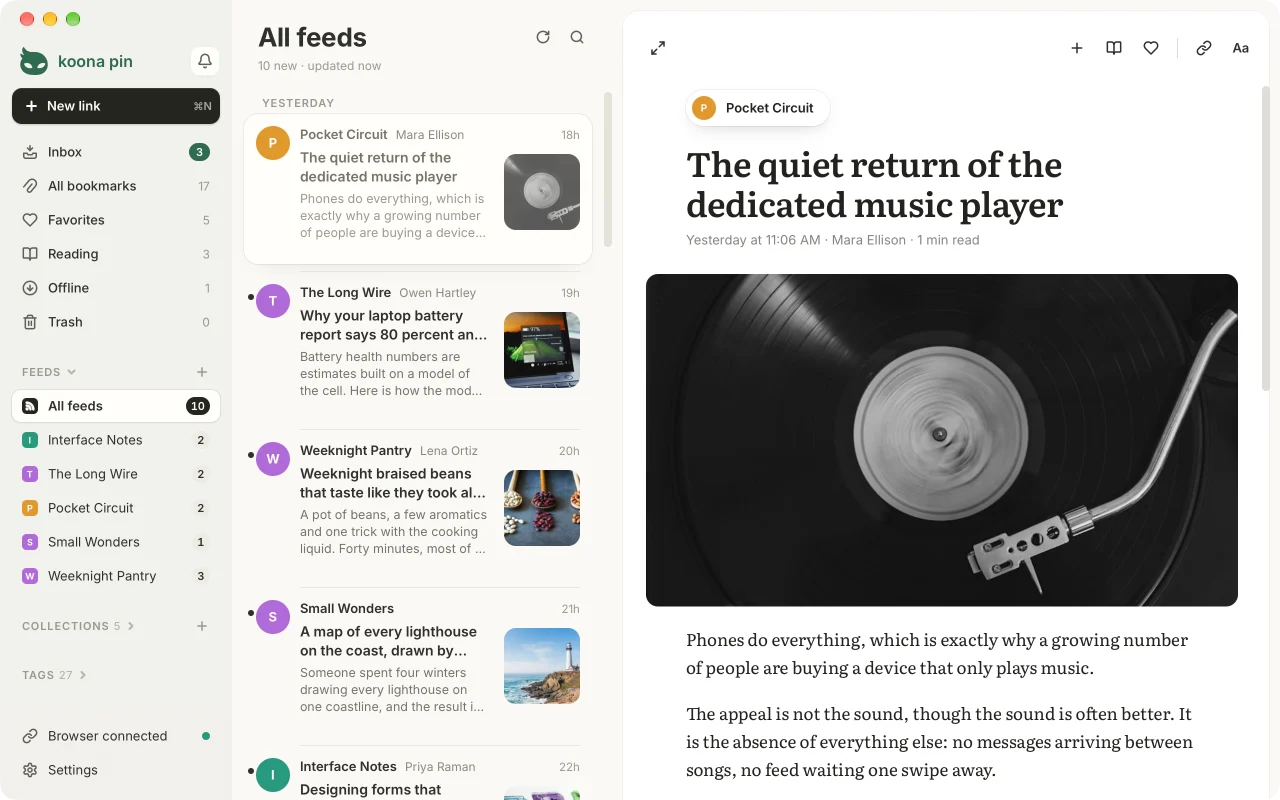
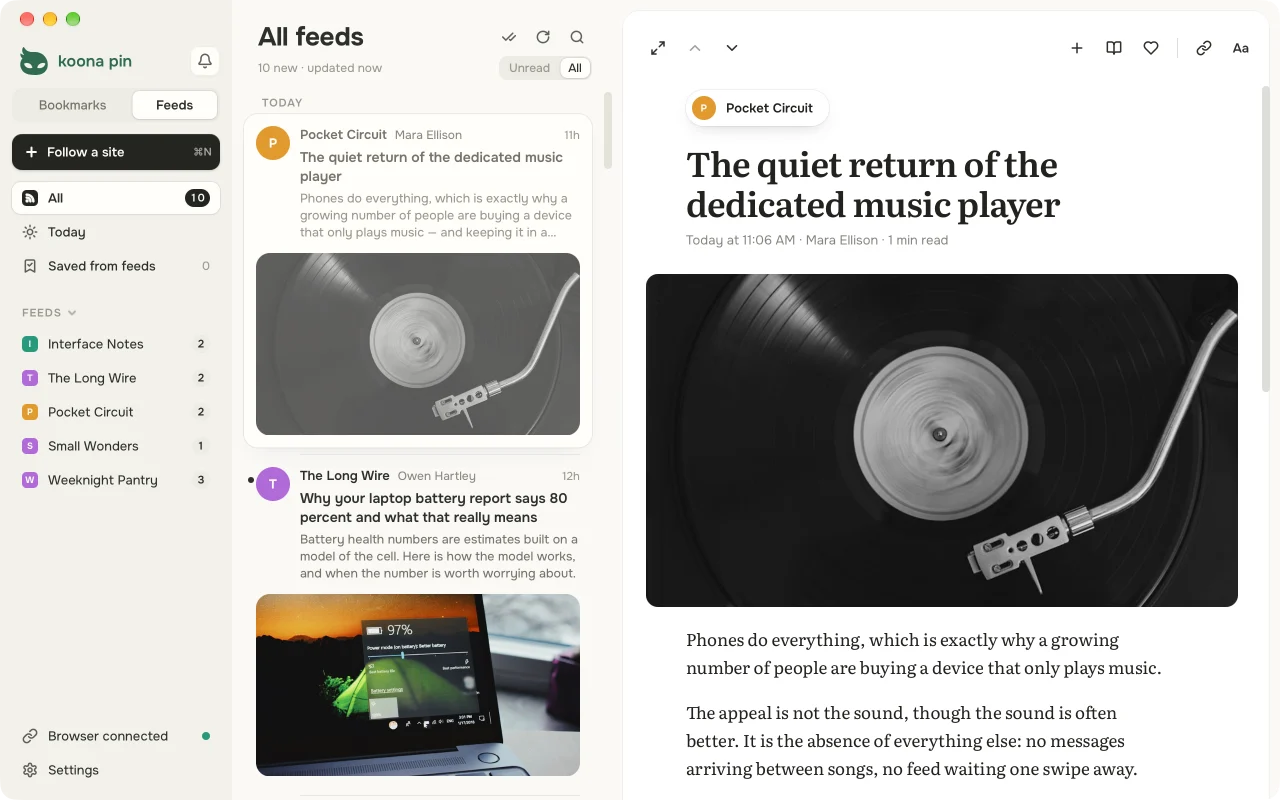
README screenshots and docs for the two modes; the macOS shot script sets the mode per view

diff --git a/README.md b/README.md
@@ -10,7 +10,7 @@ Your bookmarks and reading list, in one file on your computer. Koona Pin is a bo
 
 ![Koona Pin in the light theme: bookmarks in a compact grid with pictures, site names and titles; the Bookmarks and Feeds tabs, Inbox, Reading, collections and tags in the sidebar](docs/shots/app-en-light-grid-1280.webp)
 
-![Feeds in three columns: followed feeds in the sidebar, a list of posts with unread ones marked, and the open post on a card on the right](docs/shots/app-en-light-feeds-1280.webp)
+![Feeds in three columns: the Feeds mode's sidebar with All, Today, Saved from feeds and the followed feeds, a list of posts with unread ones marked, and the open post on a card on the right](docs/shots/app-en-light-feeds-1280.webp)
 
 ![Reading mode in the dark theme: the Reading queue on the left, an article in one serif column on the right](docs/shots/app-en-dark-reading-1280.webp)
 
@@ -18,12 +18,12 @@ Your bookmarks and reading list, in one file on your computer. Koona Pin is a bo
 
 - **One-button capture.** The browser extension saves the current page to Koona Pin, even when the app window is closed. New links arrive in Inbox.
 - **Two modes.** Bookmarks and Feeds each have their own sidebar, switched at its top or with ⌘1 and ⌘2 (Ctrl 1 and Ctrl 2 elsewhere). The app opens in the mode you used last.
-- **New link, paste or drop.** «New link» at the top of the sidebar (⌘N on a Mac, Ctrl N elsewhere) shows the page's real title and picture before you save it, and offers to follow the site's feed. Paste a link anywhere in the library (⌘V or Ctrl V) or drop it onto the window to save it at once.
+- **New link, paste or drop.** «New link» at the top of the Bookmarks sidebar (⌘N on a Mac, Ctrl N elsewhere) shows the page's real title and picture before you save it, and offers to follow the site's feed. Paste a link anywhere in the library (⌘V or Ctrl V) or drop it onto the window to save it at once.
 - **Inbox as a stack of cards.** Each new link sits on top of the next ones: ← moves it to the Trash, → keeps it, the heart adds it to Favorites. The collection where links from that site usually go is suggested.
 - **Reading mode.** Saved articles open in one serif column, with the Reading queue beside them; J and K move between articles, Tab between the queue and the article, ⌫ takes an article out of Reading. The Aa panel sets text size, column width, font and theme. A title or Enter opens a bookmark in reading mode; when a page can't be shown as an article, it offers the browser instead.
 - **A Reading list without a limit.** Send links there with R, from the card menu, or with «Save to Reading» in the extension (right-click a page or a link, or Alt+Shift+R). Reading remembers where you stopped.
 - **Offline copies.** «Save for offline» keeps an article's text and pictures on your computer, to read without a connection; Settings can do it for every article you open from Reading (off by default). Copies are never uploaded or synced.
-- **Feeds.** Follow a site's RSS, Atom or JSON feed and read new posts in three columns: feeds in the sidebar, the posts, and the article on a card with next and previous story. Today gathers the day's posts; «Saved from feeds» keeps the posts you saved, after the feed drops them. S saves a post, R sends it to Reading, F to Favorites, O opens it in the browser. A post becomes a bookmark only when you save it; unsaved posts are kept for 30 days. The app fetches feeds itself, straight from the sites, about once an hour or as often as you choose. Feeds import and export as OPML.
+- **Feeds.** Follow a site's RSS, Atom or JSON feed with «Follow a site» (⌘N in the Feeds mode) and read new posts in three columns: feeds in the sidebar, the posts, and the article on a card with next and previous story. Today gathers the day's posts; «Saved from feeds» keeps the posts you saved, after the feed drops them. S saves a post, R sends it to Reading, F to Favorites, O opens it in the browser. A post becomes a bookmark only when you save it; unsaved posts are kept for 30 days. The app fetches feeds itself, straight from the sites, about once an hour or as often as you choose. Feeds import and export as OPML.
 - **Collections three levels deep**, tags, favorites and a note on every link. Importing your browser's bookmarks keeps its folder tree as collections; folders deeper than that become tags.
 - **Grid, compact grid and list views**, a light and a dark theme. A link without a picture shows the site's name on its cover. A click selects; the arrow keys move the selection and Shift extends it. Drag selected links onto a collection, a tag, Favorites, Reading or Trash.
 - **Search** across titles, sites and tags as you type; Ctrl K (⌘K on a Mac) opens it from anywhere.

diff --git a/docs/design.md b/docs/design.md
@@ -48,7 +48,7 @@ The dark theme is "deep": a near-black ground with surfaces lifted from it in st
 
 Shapes of the shell: sidebar rows 32 px with radius 9, the active one `bg-raised` with `shadow-raised` (a tiny shadow and the 1 px raised edge) and the accent icon; section headers tracked at 0.08em; tags as outlined chips (a 1 px line inside, filled on hover). Toolbar buttons have radius 9, a `line` border and `shadow-button`; the primary one adds `shadow-primary`, a light inset top edge. The grid/list switch is a segmented control: a `well` trough with the chosen segment `bg-raised shadow-segment`. Menus are glass (`menu-glass`): radius 13, the card at about 82 % over `backdrop-filter: blur(24px) saturate(170%)`, an inner hairline and a deep soft shadow, opaque where the blur is not drawn; items 30 px with radius 8.
 
-The search is one field in the toolbar in every window, a soft well (`search` with `data-well`: 36 px, radius 10), 320 px wide, 200 px in a narrow window, and the first to give way when the row runs short; the sidebar keeps its room for «New link», feeds and collections. Focused, it takes the card, an edge of accent mixed 55 % into the border and a 4 px halo of accent at 20 %. The shortcut sits in a chip of its own on the right and steps aside while the empty field is focused; with a query it reads Esc.
+The search is one field in the toolbar in every window, a soft well (`search` with `data-well`: 36 px, radius 10), 320 px wide, 200 px in a narrow window, and the first to give way when the row runs short; the sidebar keeps its room for the mode switch, the main button and the mode's sections. Focused, it takes the card, an edge of accent mixed 55 % into the border and a 4 px halo of accent at 20 %. The shortcut sits in a chip of its own on the right and steps aside while the empty field is focused; with a query it reads Esc.
 
 Rules of thumb:
 
@@ -96,7 +96,7 @@ Radii: `rounded-sm` 6, `rounded-md` 7, `rounded-lg` 8 px for controls; `rounded-
 
 ## Adding a link
 
-- «New link» is the first control of the sidebar, under the logo row: the ink button (`bg-ink-btn`), 36 px high, radius 10, full width, a plus, the label and `⌘N` / `Ctrl N` on the right. In the narrow strip it is a round 36 px ink «+» under the bell, named by its hint. The toolbar has no Add.
+- «New link» is the main button of the Bookmarks mode, under the mode switch («Follow a site» in the Feeds mode, the same button and `⌘N`): the ink button (`bg-ink-btn`), 36 px high, radius 10, full width, a plus, the label and `⌘N` / `Ctrl N` on the right. In the narrow strip it is a round 36 px ink «+» under the bell, named by its hint. The toolbar has no Add.
 - The button and `⌘N` open a glass sheet (`AddSheet`, `.add-sheet`): 460 px, 72 px from the top, the card at 86 % over a 28 px blur, on a scrim of the background at 40 % with a 3 px blur. A 48 px field with the focus; under it one reserved 64 px slot for the hint, the clipboard's link (only when the system lets it be read without asking), the preview (shimmer while the library is asked about the site) or an error; chips for where it goes (Bookmarks, Inbox, Reading) and the collection, the suggested one chosen; title and tags behind «Title and tags»; `↵` / `Esc` hints, Cancel and the ink «Save link». Chosen chips get a 1.5 px ink ring.
 - «Follow a site» (the «+» of Feeds, the empty Feeds page) opens the same sheet with a visible heading «Follow a site» and «Paste a site's address» in the field. It only follows, never saves the page as a bookmark: no switch, no places or collections; a page without a feed says «No feed found on this page» and «Follow» stays disabled. In New link and here alike, a save pressed while the feed is checked waits for the check («Checking the feed…»), and turning «Follow» off lets it save at once.
 - `⌘V` in the library and a link dropped on the list save at once. Anything dragged in from outside shows the drop zone over the list area only: `<main>` below the toolbar, never the sidebar; on Feeds the posts and the article, in Settings the content below the header (`.drop-zone`: a scrim, a dashed `--accent` card 16 px in at 97 % `--card`, at most three lines, a 120 ms fade, no scale). A link says «Drop to save the link»; a file, whose name the webview hides until the drop, gets «Drop anything here», and the file is told apart by what it holds after the drop. The app's own drags never light it; Tauri's own drop handling is off (`dragDropEnabled: false`).

diff --git a/docs/architecture.md b/docs/architecture.md
@@ -118,7 +118,7 @@ Feeds (RSS, Atom and JSON Feed) are fetched by the app itself, from the person's
 - **Modules.** `mod.rs` holds the types, commands and events (`feeds-changed`, `feeds-refresh`). `fetch.rs` does HTTP: conditional GET, status handling and `Retry-After`, every request through the network guard. `parse.rs` reads a document with feed-rs plus a layer of its own (keys, excerpts, thumbnails, limits). `discover.rs` makes the preview of «New link»: one request to the pasted page for its title, picture and `<link rel="alternate">` feeds, kept for 10 minutes so saving does not fetch the page again; no `/feed` addresses are guessed. `schedule.rs` is the refresh loop. `save.rs` turns a post into a bookmark. `opml.rs` imports and exports OPML.
 - **The loop.** The first pass comes 30 s after the start, then a tick every 5 minutes fetches the feeds that are due: the person's interval (1 hour by default, Settings → Feeds; 0 means only by hand), longer when the feed asks, exponential backoff on failure, at most four at once and one per host.
 - **Saving.** S, R and F save a post to the library, Reading or Favorites through the normal save path and the undo journal, with `source = 'feed'`, then mark the post as saved in the cache. A feed set to sort like the Inbox saves its new posts into the Inbox by itself.
-- **The interface.** `FeedsPage.tsx` lays out the three columns: feeds in the sidebar, the posts (`FeedList.tsx`, virtualised, grouped by day) and the article (`FeedArticle.tsx`), which renders the post with the reading-mode renderer and its sanitizer, on a card with next and previous story; `useFeeds.ts` keeps the lists in step with the events.
+- **The interface.** The Feeds mode of the window (2.24.0, `Mode` in `src/app/navigation.ts`, remembered in `koonapin.mode`) has its own sidebar: All, Today (posts since the local midnight, `FeedItemQuery.since`), «Saved from feeds» (bookmarks with `source = 'feed'`, `BookmarkQuery.only_feed`, shown as a library list) and the feeds. `FeedsPage.tsx` lays out the three columns: feeds in the sidebar, the posts (`FeedList.tsx`, virtualised, grouped by day) and the article (`FeedArticle.tsx`), which renders the post with the reading-mode renderer and its sanitizer, on a card with next and previous story; `useFeeds.ts` keeps the lists in step with the events.
 - **Sync.** With Supporter the subscriptions travel as the sync entity `feed`; posts and read marks stay on each computer.
 
 ## Sync (Supporter)

diff --git a/docs/testing.md b/docs/testing.md
@@ -39,7 +39,7 @@ bun run test:ui
 `tests/ui` against the browser preview with demo data (`playwright.config.ts` starts Vite itself). The locale is `en-US` and tests name controls in English. The project `phone` runs `tests/phone`: the same demo as a phone (`tests/phone/fixtures.ts` injects the platform, the phone's capabilities and a stub of the Back bridge before the page loads), 393×852 and the Fold's inner 1088×821; `-- --project desktop` or `--project phone` runs one. Tags:
 
 - `@visual` — screenshot comparisons, see [Visual baselines](#visual-baselines).
-- `@languages` — every language at 800×550 and 1600×800: no truncated interface labels, sidebar rows fit, IME input.
+- `@languages` — every language at 800×550 and 1600×800: no truncated interface labels (in both modes: the mode switch, the Feeds sidebar and the Feeds list header), sidebar rows fit, IME input.
 - `@chromium` — the two IME tests use Chromium's CDP; exclude these when running WebKit. They remain covered by the full suite in CI (Chromium on Linux).
 
 Run a subset with `bun run test:ui -- --grep @languages` or `-- --grep-invert @visual`. Use `bunx` only with `--bun`; without it, `bunx` runs a package on Node if Node is installed.

diff --git a/docs/translating.md b/docs/translating.md
@@ -60,6 +60,8 @@ Not translated: Koona Pin, Windows, Chrome, Edge, Firefox, Chrome Web Store, Edg
 | Sort inbox | The keyboard-driven review of the inbox (triage). In English it shares "Sort" with "Sort by"; in other languages use different words for the two. |
 | Keep | The triage decision to leave a bookmark as it is and take it out of the inbox. |
 | Collection | A named group a bookmark belongs to (at most one). Shown in the sidebar. |
+| Bookmarks / Feeds (modes) | The window's two modes (2.24.0), the tabs at the top of the sidebar. «Bookmarks» is also the library's main section; inside a mode its first row is «All». Keep both tab names short: they share a 200 px switch. |
+| Saved from feeds | The Feeds mode's list of posts saved as bookmarks. A short form is fine where it is long (Turkish «Kaydedilenler»). |
 | Tag | A free label; a bookmark can have many. |
 | Note | The person's own text on a bookmark. |
 | Favorites | Bookmarks marked with a heart. |
